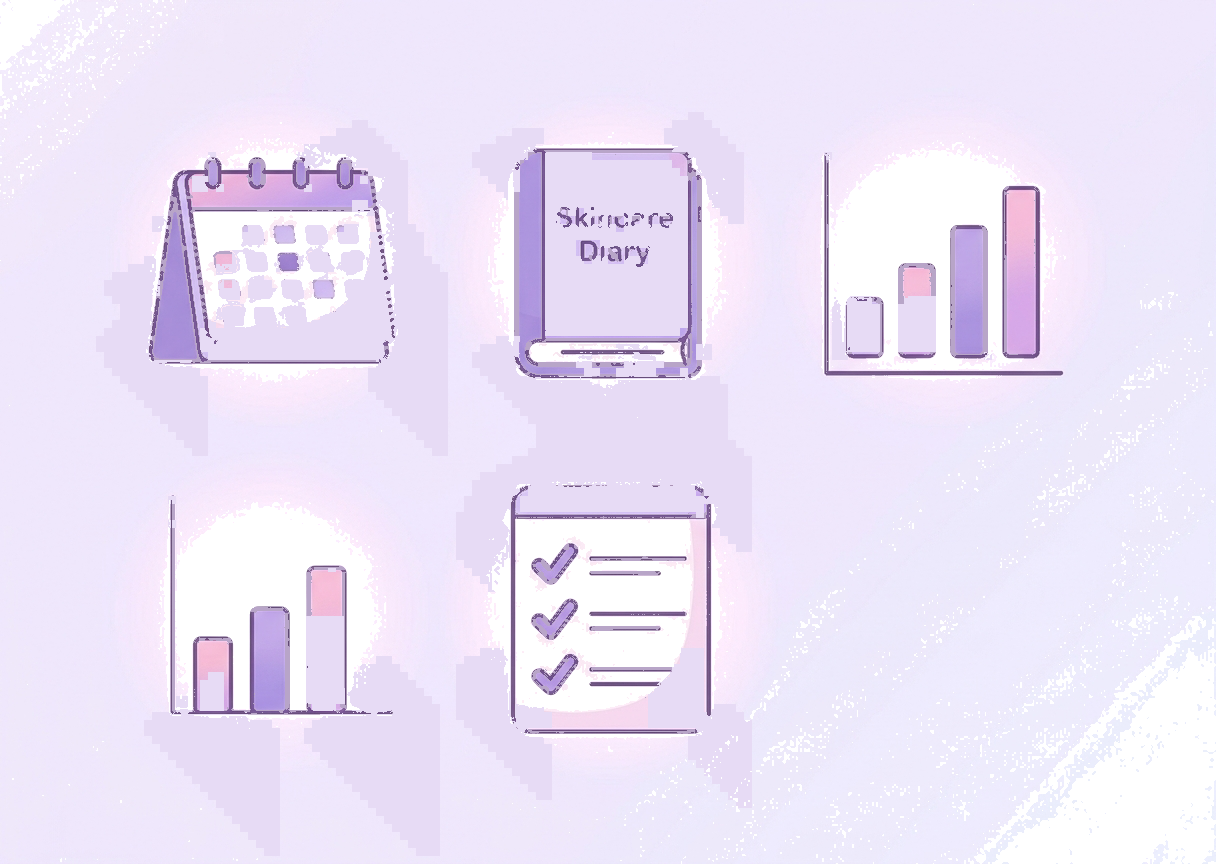
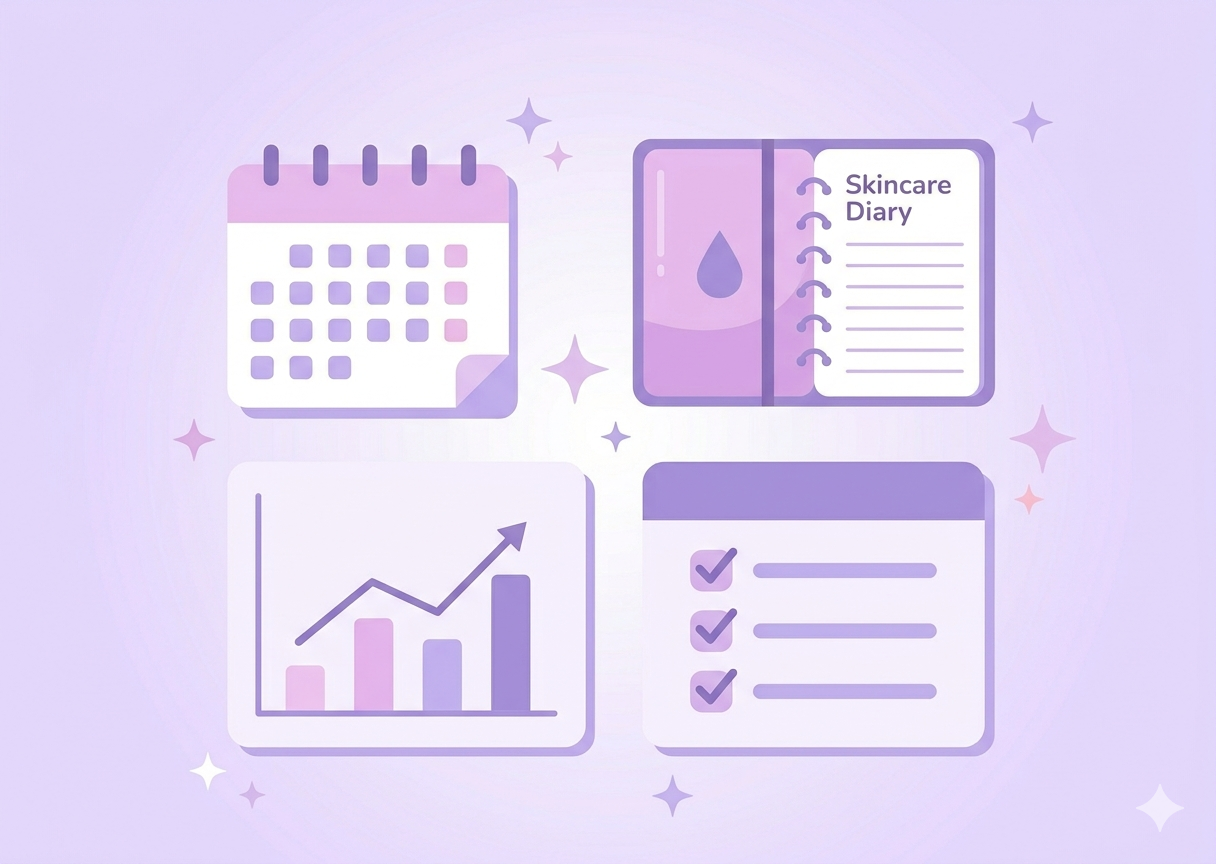
feat: v3.1.2 — New illustrations, light mode default, remove bg script

diff --git a/src/components/common/ReleaseNotesModal.jsx b/src/components/common/ReleaseNotesModal.jsx
@@ -2,22 +2,21 @@ import { useState, useEffect } from 'react'
 import { useLang } from '../../context/LanguageContext'
 import { Sparkles, Palette, Gem, Sun } from 'lucide-react'
 
-const APP_VERSION = '3.1.1'
+const APP_VERSION = '3.1.2'
 
 const STORAGE_KEY = 'glowmi_last_seen_version'
 const ONBOARDING_KEY = 'glowmi_onboarding_seen'
 
 const RELEASE_NOTES = [
   {
-    emoji: '✨',
+    emoji: '🎨',
     title: `What's New in v${APP_VERSION}`,
     titleKr: `v${APP_VERSION} 업데이트`,
-    desc: 'Desktop layout overhaul! Cleaner navigation, product grid view, and warmer design.',
-    descKr: '데스크톱 레이아웃 개편! 깔끔한 네비게이션, 제품 그리드 뷰, 따뜻한 디자인.',
+    desc: 'Fresh illustrations and light mode default for a brighter experience.',
+    descKr: '새로운 일러스트와 라이트 모드 기본 적용으로 더 밝고 산뜻한 느낌!',
     items: [
-      { emoji: '🖥', label: 'Desktop Layout', labelKr: '데스크톱 레이아웃', desc: 'Replaced sidebar with top navigation for a cleaner, wider layout.', descKr: '사이드바를 상단 탭 네비로 교체해서 더 넓고 깔끔한 레이아웃으로 개선했어요.' },
-      { emoji: '🛍', label: 'Product Grid', labelKr: '제품 그리드', desc: 'Products now display in a 3-4 column grid on desktop — browse faster!', descKr: '데스크톱에서 제품이 3-4열 그리드로 표시돼요. 더 빠르게 둘러보세요!' },
-      { emoji: '🎨', label: 'Warm Design', labelKr: '따뜻한 디자인', desc: 'New warm cream background for a softer, more inviting feel.', descKr: '따뜻한 크림색 배경으로 더 부드럽고 편안한 느낌이에요.' },
+      { emoji: '🖼', label: 'New Illustrations', labelKr: '새 일러스트', desc: 'All illustrations have been refreshed with new artwork.', descKr: '모든 일러스트가 새로운 그림으로 교체됐어요.' },
+      { emoji: '☀', label: 'Light Mode Default', labelKr: '라이트 모드 기본', desc: 'The app now defaults to light mode for new users.', descKr: '새 사용자는 기본으로 라이트 모드가 적용돼요.' },
     ],
   },
 ]

diff --git a/index.html b/index.html
@@ -2,7 +2,7 @@
 <html lang="ko">
 <head>
     <script>if(location.hostname==='glowmi.pages.dev')location.replace('https://glowmi.org'+location.pathname+location.search+location.hash)</script>
-    <script>document.documentElement.setAttribute('data-theme',localStorage.getItem('glowmi_theme')||'dark')</script>
+    <script>document.documentElement.setAttribute('data-theme',localStorage.getItem('glowmi_theme')||'light')</script>
     <meta charset="UTF-8">
     <meta name="viewport" content="width=device-width, initial-scale=1.0, maximum-scale=1.0, user-scalable=no">
 

diff --git a/src/context/ThemeContext.jsx b/src/context/ThemeContext.jsx
@@ -3,7 +3,7 @@ import { createContext, useContext, useState, useEffect } from 'react'
 const ThemeContext = createContext(null)
 
 export function ThemeProvider({ children }) {
-  const [theme, setTheme] = useState(() => localStorage.getItem('glowmi_theme') || 'dark')
+  const [theme, setTheme] = useState(() => localStorage.getItem('glowmi_theme') || 'light')
 
   useEffect(() => {
     document.documentElement.setAttribute('data-theme', theme)

diff --git a/src/components/layout/Header.jsx b/src/components/layout/Header.jsx
@@ -11,7 +11,7 @@ export default function Header({ onLogoClick }) {
       <div className="header-inner">
         <h1 className="logo" onClick={onLogoClick} style={{ cursor: 'pointer' }}>
           Glowmi
-          <span className="logo-version">v3.1.1</span>
+          <span className="logo-version">v3.1.2</span>
         </h1>
         <p className="subtitle">{t('Your K-Beauty Companion', '나만의 K-뷰티 가이드')}</p>
       </div>
